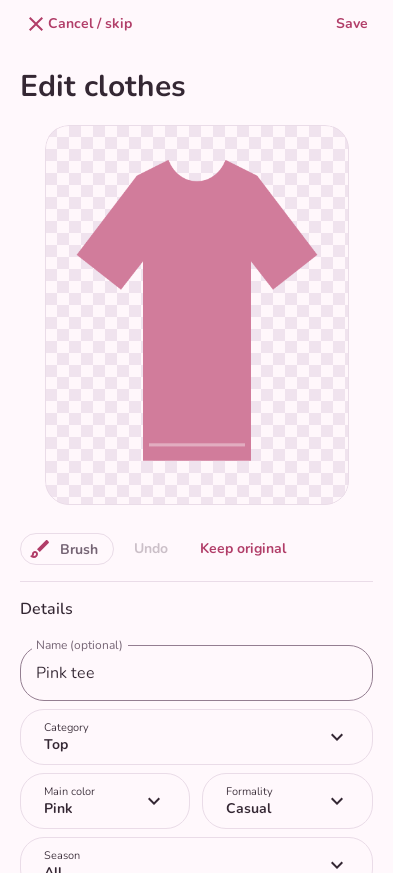
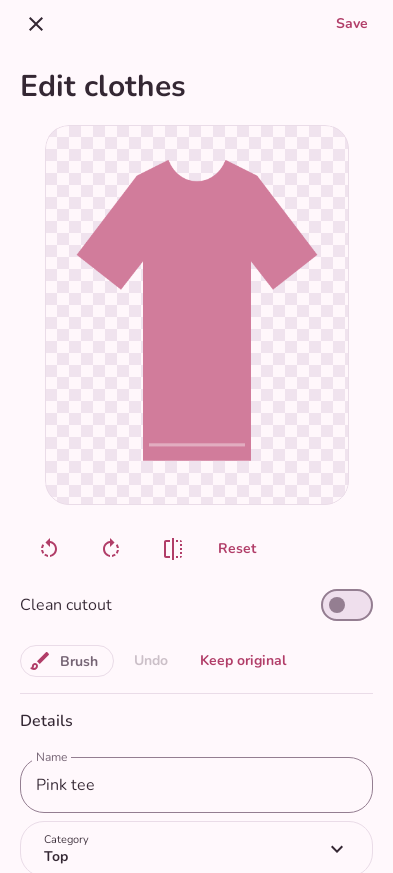
Document offline workflows and refresh current app screenshots

diff --git a/scripts/update_screenshots.py b/scripts/update_screenshots.py
@@ -4,11 +4,13 @@ import argparse, hashlib, json, pathlib, shutil, sys
 ROOT = pathlib.Path(__file__).resolve().parents[1]
 RENDERS = ROOT / 'app/build/outputs/design-review'
 DEST = ROOT / 'docs/screenshots'
-FILES = {'closet-populated-light.png':'closet.png', 'studio-light.png':'outfits.png', 'lookbook-dark.png':'saved.png', 'closet-populated-dark.png':'dark-mode.png', 'editor-light.png':'editor.png'}
+FILES = {'closet-populated-light.png':'closet.png', 'studio-light.png':'outfits.png', 'lookbook-dark.png':'saved.png', 'closet-populated-dark.png':'dark-mode.png', 'editor-light.png':'editor.png', 'settings-light.png':'settings.png', 'detail-light.png':'detail.png'}
+
+LEGACY = {'closet.png':'closet-light.png','dark-mode.png':'closet-dark.png','outfits.png':'studio-light.png','saved.png':'lookbook-dark.png'}
 
 def source_hash():
     digest = hashlib.sha256()
-    paths = sorted((ROOT/'app/src/main/java/dev/closet/ui').glob('*.kt')) + sorted((ROOT/'app/src/main/res').rglob('*')) + sorted((ROOT/'app/src/test/java/dev/closet/ui').glob('*.kt'))
+    paths = sorted((ROOT/'app/src/main/java/dev/closet').rglob('*.kt')) + sorted((ROOT/'app/src/main/assets').rglob('*')) + sorted((ROOT/'app/src/main/res').rglob('*')) + sorted((ROOT/'app/src/test/java/dev/closet/ui').glob('*.kt'))
     for path in paths:
         if path.is_file():
             digest.update(path.relative_to(ROOT).as_posix().encode())
@@ -19,16 +21,25 @@ def source_hash():
 
 def main():
     parser = argparse.ArgumentParser(description=__doc__); parser.add_argument('--check',action='store_true'); args=parser.parse_args()
+    glossary = ROOT/'GLOSSARY.md'
+    bundled = ROOT/'app/src/main/assets/glossary.md'
+    if args.check:
+        if glossary.read_bytes() != bundled.read_bytes(): raise ValueError('Offline glossary is stale. Run scripts/update_screenshots.py.')
+    else:
+        shutil.copyfile(glossary, bundled)
     manifest = {'schema':1,'ui_source_sha256':source_hash(),'screenshots':list(FILES.values()),'sample_data':'Illustrated example wardrobe, rendered with the actual app components.'}
     if args.check:
         actual = json.loads((DEST/'manifest.json').read_text())
         if actual != manifest: raise ValueError('UI screenshots are stale. Run testDebugUnitTest and scripts/update_screenshots.py.')
         if any(not (DEST/name).is_file() for name in FILES.values()): raise ValueError('Public screenshot is missing.')
-        print('Public screenshots match the current UI source.'); return
+        for src,target in LEGACY.items():
+            if (DEST/src).read_bytes() != (ROOT/'docs/design'/target).read_bytes(): raise ValueError('Legacy screenshot link is stale. Run scripts/update_screenshots.py.')
+        print('Public screenshots and offline glossary match the current source.'); return
     missing = [name for name in FILES if not (RENDERS/name).is_file()]
     if missing: raise ValueError('Generate current UI renders with testDebugUnitTest first. Missing: '+', '.join(missing))
     DEST.mkdir(parents=True,exist_ok=True)
     for src,target in FILES.items(): shutil.copyfile(RENDERS/src, DEST/target)
+    for src,target in LEGACY.items(): shutil.copyfile(DEST/src, ROOT/'docs/design'/target)
     (DEST/'manifest.json').write_text(json.dumps(manifest,indent=2)+'\n')
     print('Public app screenshots refreshed.')
 

diff --git a/README.md b/README.md
@@ -9,17 +9,27 @@ An offline Android wardrobe: photograph your clothes, clean up their backgrounds
   <img src="docs/screenshots/outfits.png" width="230" alt="Outfit builder" />
   <img src="docs/screenshots/saved.png" width="230" alt="Saved outfits in dark mode" />
 </p>
+<details><summary>Editing, item details, and settings</summary>
+<p align="center">
+  <img src="docs/screenshots/editor.png" width="230" alt="Cutout editor" />
+  <img src="docs/screenshots/detail.png" width="230" alt="Item details and rotation" />
+  <img src="docs/screenshots/settings.png" width="230" alt="Offline app settings" />
+</p>
+</details>
 
 *Rendered from the app's actual interface with an illustrated example wardrobe. Personal photos are not included. UI updates include refreshed screenshots; CI checks that they match the current source.*
 
 ## Features
 
-- Camera capture and multiple-photo imports.
-- On-device background removal, an erase/restore brush, and an original-image fallback.
-- A searchable wardrobe with category, color, formality, and season details.
-- Rule-based outfit suggestions, individual piece swaps, and favorites.
-- Export or share an outfit as one transparent PNG.
-- Dark mode, system font scaling, rounded controls, and short transitions that follow Android's animation settings.
+- Camera capture and multi-photo queue with review and **Save all**.
+- On-device cutouts, aligned erase/restore brush, rotation, mirroring, and original-photo fallback.
+- Editable color, category/type, pattern, formality, season, and name suggestions; optional tag-text scanning.
+- Toggleable crop, edge cleanup, and gentle brightening with before/after preview.
+- Search, category filters, sorting, grid size, item favorites, duplication, and multi-delete.
+- Occasion-based outfit options, piece locks/swaps, short matching explanations, and local like/dislike preferences.
+- Saved outfits, favorites, renaming, wear history, and single-PNG export/sharing.
+- Theme/accent settings, automatic seasons, repeat preferences, and complete ZIP backup/restore.
+- Rounded responsive layouts, system font scaling, dark mode, and finite motion.
 
 ## Install
 
@@ -34,9 +44,15 @@ Use APKs from the same official signing identity for updates. See [Android signi
 
 ## Use Closet
 
-Tap **Add clothes**, review each photo, and save its category and details. Add a top, bottom, and shoes before shuffling in **Outfits**. Hats and jackets can join a look. **Saved** holds favorites and provides PNG export and sharing.
+1. **Add clothes** from the camera or gallery. Wait for the queue, check suggested details in **Review / fix**, then **Save all**. Every suggestion is editable; “Auto” marks fields still using a guess.
+2. Open a piece for a larger preview, rotation, favorites, wear counts, duplication, or editing. The editor keeps original and cutout pixels aligned for the restore brush. **Reset** undoes the current orientation preview.
+3. In **Outfits**, choose an occasion and filters, then **Shuffle**. Swipe through up to five distinct options. Lock pieces to keep them during the next shuffle; swap individual slots manually. Sleep uses pajamas. Like/dislike affects pair scores only on this device.
+4. Save a look, rename it in **Saved**, and tap **Wore this today** to record history. Recently worn pieces receive a configurable scoring penalty.
+5. Open the gear for appearance, hemisphere, photo-processing and outfit settings. **Export backup** saves an editable closet ZIP; **Restore backup** replaces the current collection after confirmation.
 
-Good light and a plain background improve cutouts. ML Kit may need an initial model download through Google Play services. The brush and original-image option work without that model.
+Good light and a plain background improve cutouts. ML Kit Subject Segmentation may need an initial model download through Google Play services. Image labeling and Latin-script text recognition models are bundled. The brush and original-image option remain available if detection fails.
+
+Suggestions are heuristics, not fashion expertise: orientation, garment type, and pattern can be wrong. Shoes have no universally correct toe direction, so ambiguous masks stay unchanged. Cleanup keeps the largest foreground component, which can remove intentionally separate pieces; turn it off when needed. It cannot unfold sleeves or remove wrinkles. A small closet may yield fewer than five unique outfits.
 
 ## Privacy and storage
 
@@ -44,7 +60,9 @@ Wardrobe details use a local Room database. Originals, cutouts, and outfits stay
 
 The system photo picker grants access only to selected images. Capture uses your camera app. Gallery export requests storage permission only on Android 8–9; newer Android versions use scoped storage.
 
-Uninstalling or clearing app data removes the wardrobe. Automatic backup is disabled. PNG export preserves outfit images, not a complete editable wardrobe backup.
+Uninstalling or clearing app data removes the wardrobe. Automatic system backup is disabled. Use **Settings → Export backup** regularly and keep the ZIP privately outside the app. It contains photos, a portable database snapshot, settings, wear history, and learned pair preferences. PNG export preserves only the outfit picture.
+
+Restore accepts Closet backup format 2, validates entries/images and size limits, then replaces records in one database transaction. Invalid archives leave the existing closet intact. ZIPs are not encrypted; choose a trusted destination. A document provider you choose may sync the backup externally. Closet itself has no network access.
 
 ## Development
 
@@ -66,7 +84,9 @@ Packaging fails when permanent signing credentials are absent or mismatched; it 
 | Path | Purpose |
 | --- | --- |
 | `app/src/main/java/dev/closet/ui/` | Screens, responsive typography, animation, and state |
-| `app/src/main/java/dev/closet/data/` | Local database |
+| `app/src/main/java/dev/closet/data/` | Room migration, settings, and portable backups |
+| `app/schemas/` | Exported database layouts, versions 1 and 2 |
+| `app/src/main/java/dev/closet/processing/` | Offline photo analysis, orientation, cleanup, and tag scanning |
 | `app/src/main/java/dev/closet/imaging/` | Imports, cutouts, composition, export, and sharing |
 | `app/src/main/java/dev/closet/domain/` | Outfit matching |
 | `app/src/main/assets/style_rules.json` | Editable style policy |
@@ -74,6 +94,6 @@ Packaging fails when permanent signing credentials are absent or mismatched; it 
 | `app/src/androidTest/` | Device integration checks |
 | `scripts/` | Signing verification and screenshot refresh |
 
-Style rules are bundled JSON and require rebuilding after edits. Matching is local and rule-based. A suggestion-provider interface is reserved for future extensions; no online AI is implemented.
+Style policy lives in `style_rules.json` version 2: color harmony, pattern/formality penalties, occasion filters, layering seasons, repeat penalties, and feedback weights. Rules are bundled and require rebuilding after edits. Matching is local and rule-based. Suggestion and cleanup-provider interfaces are reserved for future extensions; no cloud cleanup or online AI is implemented.
 
 [Glossary](GLOSSARY.md) · [Third-party notices](THIRD_PARTY_NOTICES.md)

diff --git a/GLOSSARY.md b/GLOSSARY.md
@@ -60,7 +60,7 @@
 | API | A defined way for code to use a system or library. No paid web API is used. |
 | Manifest | Android’s declaration of the app’s screens, permissions, and providers. |
 | Cache | Temporary files Android can clear; used for camera captures and share copies. |
-| Backup | A separate copy for recovery. Closet disables automatic app backup and currently has no full wardrobe backup/restore feature. |
+| Backup | A separate copy for recovery. Closet disables automatic app backup; use Settings → Export backup / Restore backup for the complete editable wardrobe. |
 | Accessibility / semantics | Labels, readable scaling, and screen information that help assistive tools and users. |
 
 ## Interface and update safety
@@ -106,3 +106,34 @@
 | Lint / static analysis | Automated inspection for likely Android correctness, usability, or compatibility problems. |
 | Build / compile / package | Turn source code into executable instructions and combine them with resources into an APK. |
 | Release | A distributed version intended for users. An uploaded debug artifact is not a Play Store release. |
+
+## Photo suggestions, outfits, and recovery
+
+| Term | In plain words |
+| --- | --- |
+| Schema / exported schema | The database's layout, saved as a readable file so changes can be reviewed and tested. |
+| Migration / ALTER TABLE | A safe change to that layout, such as adding a brand field while preserving existing clothes. |
+| Transaction / rollback | A group of database changes that succeeds together or leaves the old records intact on failure. |
+| ML Kit Image Labeling | A model bundled in the APK that suggests general photo labels on the phone. It is not a specialist fashion classifier, so categories can be wrong. |
+| ML Kit Text Recognition / OCR | A bundled model that reads printed letters from a label photo. OCR means optical character recognition. Brand and size text remain editable. |
+| Heuristic / deterministic | A practical rule of thumb; deterministic means the same input produces the same guess. It cannot guarantee which way ambiguous clothing faces. |
+| Dominant color / quantized histogram | The most common opaque color, counted in groups of similar shades. Translucent edge pixels are ignored. |
+| Pattern statistics | Comparing nearby pixels to guess stripes, checks, dots, print, or solid fabric. Seams, shadows, and wrinkles can confuse the guess. |
+| Connected component / speck / hole | A group of touching foreground pixels, a small detached fragment, and a transparent gap inside a foreground shape. Cleanup keeps the largest group; turn it off for intentionally separate pieces. |
+| Alpha smoothing / brightness / contrast | Softening pixel edges, changing how light an image is, and changing the difference between light and dark. These edits cannot unfold clothing or remove wrinkles. |
+| Auto-crop / padding / normalization | Trimming empty surroundings, adding even space around the item, and making saved images a consistent maximum size. |
+| Batch / queue / review | Several selected photos processed one at a time, then checked before saving all of them. Unsaved batches are not guaranteed to survive an app restart. |
+| Subcategory | A more specific clothing type, such as jeans within bottoms. |
+| Monochrome / analogous / complementary | The same color, neighboring color-wheel shades, and shades opposite each other. The style-rules file defines scoring. |
+| Occasion / layering / pattern clash | A context for an outfit, wearing a jacket over a top, and competing strong patterns. |
+| Pair preference / recency penalty | Local feedback about two pieces together, and lowering the score of recently worn clothes. Nothing is uploaded or trained online. |
+| Carousel / locked slot | A horizontally swipeable set of outfit options, and a piece kept unchanged when shuffling. A small closet may offer fewer than five unique options. |
+| Wear log / hemisphere | Dates outfits were worn, and which half of the world determines automatic seasons. Tropical mode leaves season unrestricted. |
+| SharedPreferences | Android's private local storage for small settings such as theme and accent color. |
+| ZIP / portable logical database snapshot | A single backup file holding photos, settings, and readable database records. Restore rebuilds the Room records with new local file paths. It is not a raw SQLite file or an APK. |
+| ZIP path traversal / decompression limit | A malicious archive trying to write outside its folder, and a size limit to avoid an archive exhausting device storage. Restore rejects unknown entries before changing the live closet. |
+| System file picker / Storage Access Framework | Android's chooser for granting access to the exact backup file or destination you select, without broad storage access. |
+| androidx.core:core-splashscreen | Android's compatible startup-screen library. Closet uses a short hanger animation and fade, without deliberately delaying startup. |
+| Adaptive launcher icon / foreground / background / monochrome layer | Separate icon artwork Android can crop into different launcher shapes; the single-color layer supports themed home-screen icons. |
+| Animated vector / interpolator | A drawing animated by a small property change, and the timing curve controlling its movement. |
+| Blur mask / soft shadow | A softened silhouette drawn behind a clothing image to give the stack a gentle sense of depth. |

diff --git a/docs/TESTING.md b/docs/TESTING.md
@@ -15,3 +15,14 @@ Refresh public screenshots with `python3 scripts/update_screenshots.py`. Its `--
 Packaging debug and release APKs requires the existing permanent signing configuration. `scripts/signing.py verify-apks` verifies both against the certificate pin. Do not remove signing checks to make a build pass.
 
 GitHub Actions uploads APKs separately from validation reports and screenshots. It does not publish a Play Store release.
+
+## 1.3 data and photo checks
+
+- `MigrationBackupTest` creates a database from the committed version-1 schema, inserts old clothes/outfits, opens it with the production 1→2 migration, and checks retained values/defaults. Room validates the resulting layout. No destructive fallback is configured.
+- Backup tests export and restore real PNGs plus item details, favorites, wear history, preferences and settings. Malformed and path-traversal ZIPs must leave live records intact.
+- `GarmentAnalysisTest` checks opaque-pixel color mapping, confidence fallback, pattern statistics, upright/upside-down/sideways masks, ambiguous shapes and shoe geometry.
+- `PhotoProcessingTest` checks rotation/mirroring coordinates and mask cleanup/aligned geometry.
+- Outfit tests check patterns, formality clashes, summer layering, locks, pajamas, repeat penalties, local preferences and unique option counts.
+- Render checks include Settings, item detail, narrow/large-font editor and Settings, plus landscape editing. Production screen functions generate documentation images; fixture clothes remain test-only.
+
+On a phone, install as an update, confirm the existing closet is present, export a backup, and restore that ZIP before adding many new items. Exercise camera/gallery, tag scanning, model-unavailable fallback, rotation plus restore brush, five-option swiping, locks, wear logging, gallery export, and the Android document picker. Host tests cannot establish camera/OCR/segmentation quality or an APK upgrade on a physical device.

diff --git a/docs/BACKUPS.md b/docs/BACKUPS.md
@@ -1,0 +1,9 @@
+# Closet backups
+
+Use Settings → Export backup and choose a private destination in Android's file picker. A ZIP contains all saved clothing PNGs, original photos, outfit images, a portable logical Room database snapshot (`database.json`), settings, wear history and pair preferences. It does not contain the app's signing key or an APK. An unsaved review batch is not part of the saved closet.
+
+Backups are not encrypted. A storage provider selected in the picker may sync files; choose its destination deliberately. Regular exports protect against uninstalling, clearing storage, or losing a phone. Keep a second copy outside app storage.
+
+Restore replaces the current closet after confirmation. It validates the archive version, allowed filenames, duplicate entries, referenced PNGs and image bounds before replacing database records in a transaction. Images are staged under private storage and assigned fresh paths. Failed validation leaves the saved closet unchanged. The import limit is 1 GB uncompressed, 32 MB per entry and 20,000 entries. The current format is version 2.
+
+Export the current closet before restoring a different backup. Outfit PNG sharing is useful for pictures but does not preserve editable wardrobe records.

diff --git a/docs/VALIDATION.md b/docs/VALIDATION.md
@@ -5,3 +5,9 @@ See [testing](TESTING.md) for logic tests, native Compose renders, lint, device 
 Local build results do not establish that camera behavior, segmentation quality, sharing, or an installation update worked on a physical device. Generated screenshots are actual component renders with example data, not physical-device screenshots.
 
 The screenshot manifest records a source fingerprint. Changing UI or screenshot fixtures requires rerendering and refreshing public images before committing. CI validates freshness without repository write access.
+
+## Version 1.3 coverage
+
+The host suite contains 41 app tests: 14 outfit-engine tests, 5 analysis tests, 2 native-image processing tests, 3 database/backup tests and 17 native Compose render/layout checks. The signing scripts have 4 additional policy checks. Serialized Android lint and device-test compilation are part of development validation.
+
+On-device camera capture, first-time subject-model provisioning, real garment cutouts/labels, document-provider behavior and upgrade installation still require physical-phone testing. General photo labeling and mask statistics are suggestions; their accuracy is not guaranteed.

diff --git a/docs/DESIGN_DIRECTION.md b/docs/DESIGN_DIRECTION.md
@@ -7,3 +7,7 @@ Titles measure the actual font at the available width and system font scale. Con
 Motion includes short page/outfit crossfades, selected-tab transitions, card press feedback, grid changes, and an empty-state entrance. Standard Compose timing follows Android's animation-duration setting; no decoration animates indefinitely.
 
 Public screenshots are rendered from production components using illustrated sample clothes. They are neither a separate mockup nor preloaded app data. UI commits refresh screenshots, and CI checks freshness.
+
+## Everyday flows
+
+Version 1.3 keeps the rounded rose/lilac/plum direction while extending the app with review, detail and Settings screens. Outfit actions appear before the image so users can reach Shuffle without scrolling past a tall stack. Secondary detail controls use compact icon buttons with accessibility labels. Long forms scroll instead of compressing text; control groups wrap at narrow widths. The appearance controls offer rose, lilac and teal accents without replacing the shared spacing and type system.

diff --git a/CONTRIBUTING.md b/CONTRIBUTING.md
@@ -7,3 +7,7 @@
 - Package builds only with the existing permanent signing identity. Preserve application ID and increase versionCode for native updates. Never silently generate a new distribution key.
 - Use finite standard Compose animations that follow Android's duration setting. Keep text and touch targets usable with system font scaling.
 - Use deterministic illustrated fixtures or properly licensed sample clothing in public screenshots, never personal wardrobe photos.
+- Database changes require exported schemas and a tested non-destructive Room migration. Preserve the version-1 schema as the installed-data baseline.
+- Keep style policy in the versioned JSON asset. Photo suggestions must stay editable and failure must leave manual saving available.
+- Backup restore must validate all entries and image references before replacing live rows. Never extract archive paths directly into app storage.
+- Keep `app/src/main/assets/glossary.md` identical to `GLOSSARY.md` for the offline glossary.
